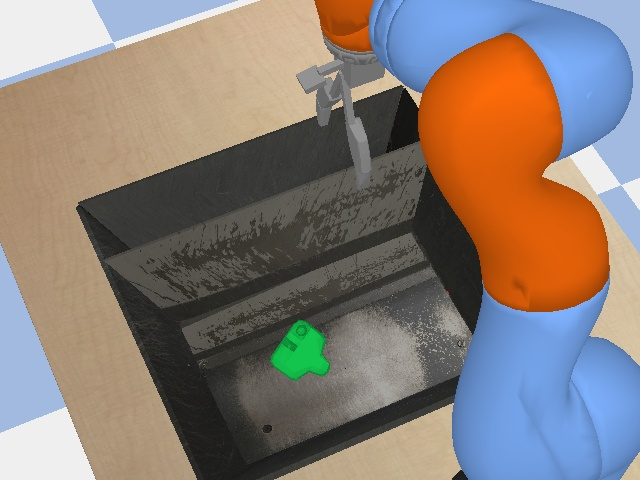
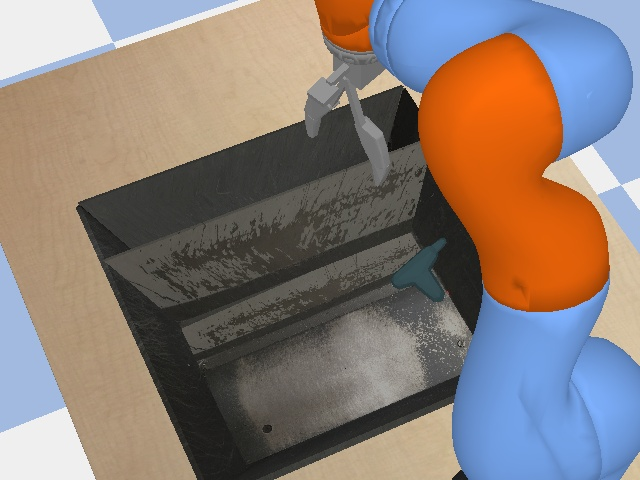
fixed controller

Changed region(s): [[0.4688, 0.125, 0.625, 0.4062], [0.4062, 0.6562, 0.5312, 0.8125], [0.5938, 0.5, 0.7188, 0.625]]

diff --git a/collect_data/collect_data.py b/collect_data/collect_data.py
@@ -84,6 +84,7 @@ class KukaOperator:
     def __init__(self, env, args):
         self.env = env
         self.kuka_id = self.env._kuka.kukaUid
+        self.keyboard = Keyboard()
         self.args = args
         self.init()
         
@@ -122,11 +123,11 @@ class KukaOperator:
         return joint_pos
     
     
-    # def control_pos(self):
-    #     for i in range(len(self.param_ids)):
-    #         target_joint = p.readUserDebugParameter(self.param_ids[i])
-    #         p.setJointMotorControl2(self.kuka_id, self.joint_ids[i], p.POSITION_CONTROL, target_joint, force=5 * 240.)
-    #     time.sleep(0.01)
+    def control_key(self):
+        while True:
+            self.keyboard.action, self.keyboard.text = self.keyboard.get_pressed_key()
+            self.keyboard.update(self.keyboard.text)
+            self.env.arm_control(self.keyboard.action)
     
     
     def get_top_img(self):
@@ -159,8 +160,7 @@ class KukaOperator:
 
 
     def process(self):
-        keyboard = Keyboard()
-        thread = threading.Thread(target=keyboard.control_key, name="keyboard_thread", daemon=True)
+        thread = threading.Thread(target=self.control_key, name="keyboard_thread", daemon=True)
         thread.start()
         timesteps = []
         actions = []
@@ -174,7 +174,7 @@ class KukaOperator:
         print_flag = True
 
         while count < self.args.max_timesteps + 1:
-            self.env.arm_control(keyboard.action)
+            self.env.arm_control(self.keyboard.action)
             # collecting image and joint data
             result = self.get_frame()
             if not result:
@@ -256,7 +256,7 @@ def get_arguments():
 
 
 def main():
-    env = KukaIrEnv(renders=True, isDiscrete=True)
+    env = KukaIrEnv(renders=True, isDiscrete=True, numObjects=1)
     env.reset()
     args = get_arguments()
     kuka_operator = KukaOperator(env, args)

diff --git a/run_sim.py b/run_sim.py
@@ -11,10 +11,10 @@ from keybord_control import Keyboard
 
 
 class Kuka_sim:
-    def __init__(self, env, device):
+    def __init__(self, env):
         self.env = env
         self.kuka_id = self.env._kuka.kukaUid
-        self.device = device
+        # self.device = device
         self.init_pos()
     
     
@@ -68,6 +68,13 @@ class Kuka_sim:
             count += 1
         return
     
+    def control_key(self):
+        keyboard = Keyboard()
+        while True:
+            keyboard.action, keyboard.text = keyboard.get_pressed_key()
+            keyboard.update(keyboard.text)
+            self.env.arm_control(keyboard.action)
+    
     def get_top_img(self):
         screen = self.env._get_observation()[0]
         top_img = cv2.cvtColor(screen, cv2.COLOR_RGB2BGR)
@@ -84,10 +91,9 @@ class Kuka_sim:
 def main():
     env = KukaIrEnv(renders=True, isDiscrete=True, numObjects=1)
     env.reset()
-    device = torch.device("cuda" if torch.cuda.is_available() else "cpu")
-    kuka_sim = Kuka_sim(env, device)
-    keyboard = Keyboard()
-    thread = threading.Thread(target=keyboard.control_key, name="keyboard_thread", daemon=True)
+    # device = torch.device("cuda" if torch.cuda.is_available() else "cpu")
+    kuka_sim = Kuka_sim(env)
+    thread = threading.Thread(target=kuka_sim.control_key, name="keyboard_thread", daemon=True)
     thread.start()
     # joint_pos = kuka_sim.get_joint()
     # print(joint_pos)
@@ -100,7 +106,6 @@ def main():
             # キーボードまたはゲームパッド入力取得
             kuka_sim.get_top_img()
             kuka_sim.get_hand_img()
-            env.arm_control(keyboard.action)
         
 
 if __name__ == "__main__": 
